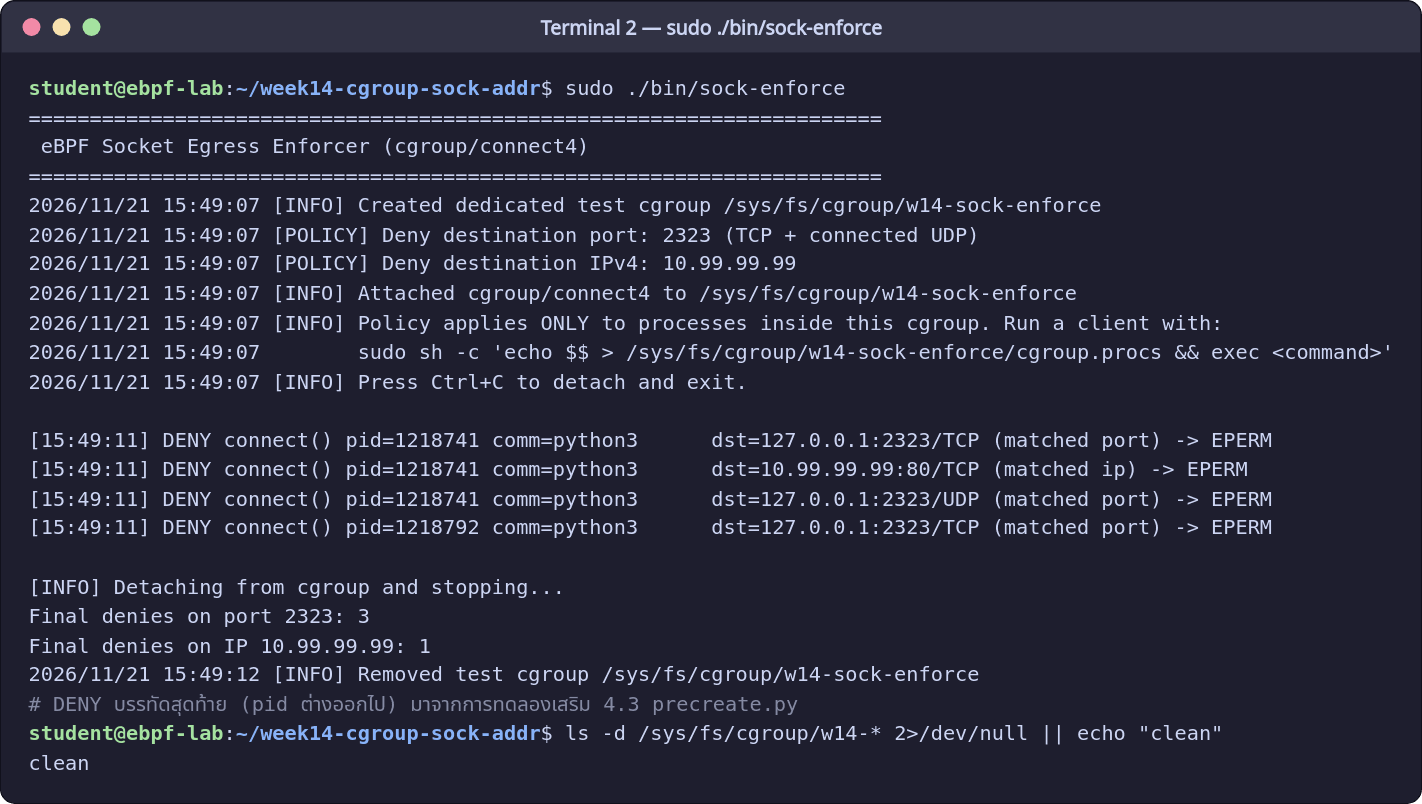
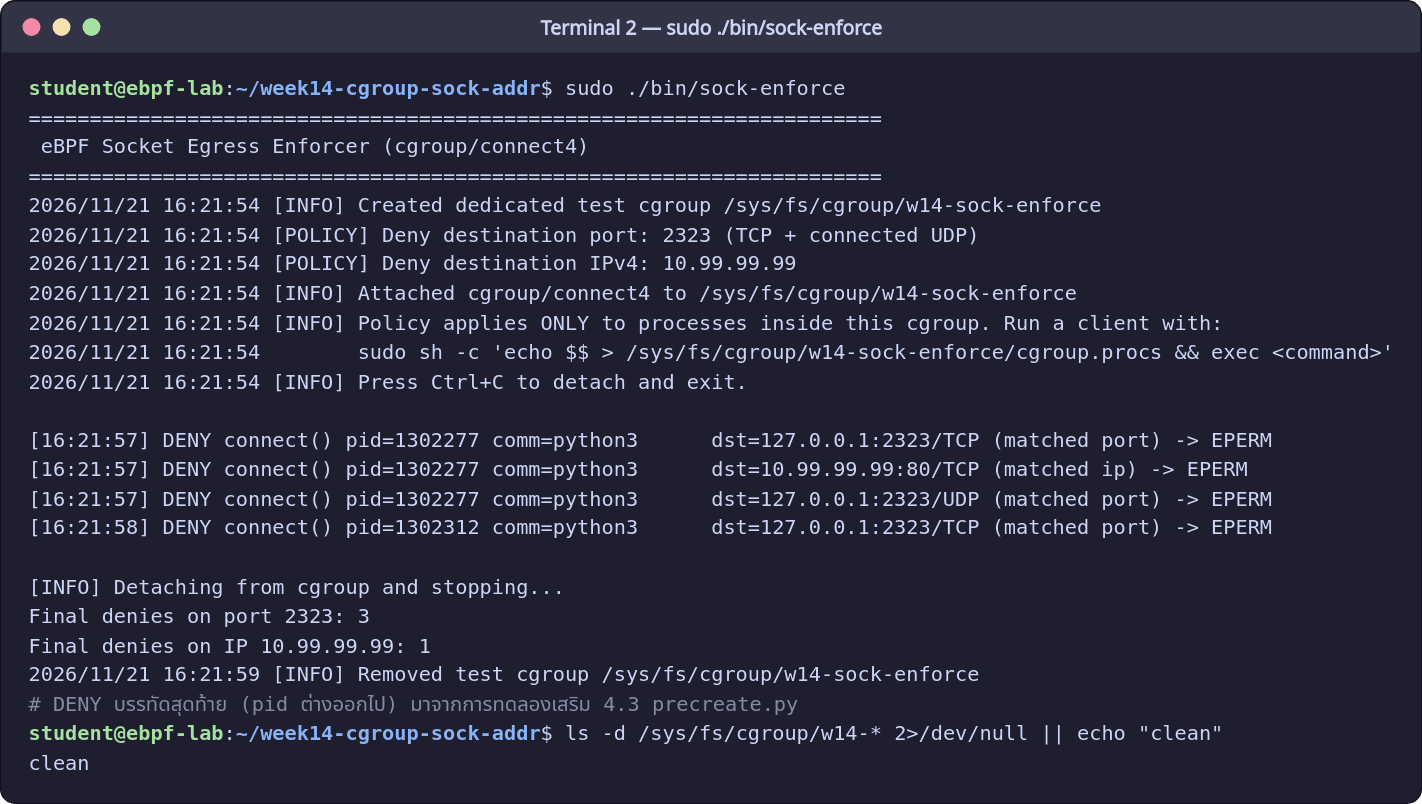
docs: align READMEs with Linux 7.0.0-43 and the new screenshots
- week06: re-capture section 5.6 verifier logs (kernel now prints
  "stack depth N max M" and "insns processed N"); note the format change
- week14: ship client.py and precreate.py in the lab instead of only
  inline/described; capture script uses them
- week16: BPF LSM is now enabled on the lab box; explain why the 4.2 text
  says NOT ACTIVE while the screenshot says ACTIVE
- week24: step 4 now shows how to get the full verifier log (bpftool prog
  load); note BTF IDs change per kernel build (99570 -> 99745)
- week25: enqueue == dispatch is not guaranteed (tasks left in SHARED_DSQ
  at detach); nice ratio depends on load; add caveat to the gallery

diff --git a/phase07-advanced-security-observability/week14-cgroup-sock-addr/client.py b/phase07-advanced-security-observability/week14-cgroup-sock-addr/client.py
@@ -1,0 +1,39 @@
+#!/usr/bin/env python3
+# Week 14 test client (same code as README step 4). Usage: python3 client.py [--in-cgroup] [--bypass]
+import socket, errno, sys
+def tryit(label, fn):
+    try: fn(); print(f"  {label:<48} -> OK (not blocked)")
+    except OSError as e: print(f"  {label:<48} -> {errno.errorcode.get(e.errno)} ({e.strerror})")
+def tcp4(h, p):
+    def f():
+        s = socket.socket(); s.settimeout(1)
+        try: s.connect((h, p))
+        finally: s.close()
+    return f
+def udp4_connect(h, p):
+    def f():
+        s = socket.socket(socket.AF_INET, socket.SOCK_DGRAM)
+        try: s.connect((h, p))
+        finally: s.close()
+    return f
+def udp4_sendto(h, p):
+    def f():
+        s = socket.socket(socket.AF_INET, socket.SOCK_DGRAM)
+        try: s.sendto(b"x", (h, p))
+        finally: s.close()
+    return f
+def tcp6_mapped(h, p):
+    def f():
+        s = socket.socket(socket.AF_INET6); s.settimeout(1)
+        try: s.connect(("::ffff:" + h, p))
+        finally: s.close()
+    return f
+print("cgroup of client:", open("/proc/self/cgroup").read().strip())
+tryit("TCP  connect 127.0.0.1:2323 (blocked port)", tcp4("127.0.0.1", 2323))
+tryit("TCP  connect 127.0.0.1:8080 (allowed port)", tcp4("127.0.0.1", 8080))
+if "--in-cgroup" in sys.argv:   # ไม่ทดสอบ IP ภายนอกจากนอก cgroup เพื่อไม่ให้มี SYN ออกไปจริง
+    tryit("TCP  connect 10.99.99.99:80 (blocked IP)", tcp4("10.99.99.99", 80))
+tryit("UDP  connect 127.0.0.1:2323 (blocked port)", udp4_connect("127.0.0.1", 2323))
+if "--bypass" in sys.argv:
+    tryit("UDP  sendto 127.0.0.1:2323 without connect()", udp4_sendto("127.0.0.1", 2323))
+    tryit("TCP6 connect [::ffff:127.0.0.1]:2323 (v4-mapped)", tcp6_mapped("127.0.0.1", 2323))

diff --git a/phase07-advanced-security-observability/week14-cgroup-sock-addr/precreate.py b/phase07-advanced-security-observability/week14-cgroup-sock-addr/precreate.py
@@ -1,0 +1,13 @@
+#!/usr/bin/env python3
+# Week 14 section 4.3: a socket created BEFORE joining the cgroup keeps its old cgroup.
+# Run as root while sock-enforce is attached: sudo python3 precreate.py
+import os, socket
+CG = "/sys/fs/cgroup/w14-sock-enforce/cgroup.procs"
+before = socket.socket()                       # created while still outside
+open(CG, "w").write(str(os.getpid()))          # join the test cgroup
+after = socket.socket()                        # created inside the cgroup
+print("now in:", open("/proc/self/cgroup").read().strip())
+for label, s in (("socket created BEFORE joining cgroup", before),
+                 ("socket created AFTER joining cgroup", after)):
+    try: s.connect(("127.0.0.1", 2323)); print(f"  {label:<40} -> connected")
+    except OSError as e: print(f"  {label:<40} -> {e}")

diff --git a/phase11-modern-ebpf-extensibility/week25-struct-ops-sched-ext/README.md b/phase11-modern-ebpf-extensibility/week25-struct-ops-sched-ext/README.md
@@ -376,6 +376,8 @@ pgrep -f 'ext-run' || echo "no workload left"
 
 > รันจริงบน `Linux 7.0.0-43-generic` (Ubuntu 26.04) เมื่อ 2026-11-21 ด้วยสคริปต์ [`scripts/screenshots/week25.sh`](../../scripts/screenshots/week25.sh) ทุกบรรทัดในภาพมาจากคำสั่งจริง (render เป็นภาพด้วย `scripts/screenshots/render.py`) ค่าอย่าง PID, เวลา, latency จึงอาจต่างจากข้อความในหัวข้อย่อยด้านล่างเล็กน้อย
 
+> **หมายเหตุ:** ภาพชุดนี้ถ่ายขณะเครื่องมีโหลดสูง (capture แล็บอื่นพร้อมกัน) ตัวเลขเชิงเวลาจึงต่างจากข้อความด้านล่าง: demo-nice ได้อัตราส่วน nice0:nice10 ≈ 3.5 : 1 (ข้อความ 4.x ≈ 8 : 1), demo-error ใช้ ~5 วินาทีกว่าจะถึง 1000 running events และ FIFO ได้ enqueue 4,955 / dispatch 4,947 (ดูคำอธิบายในหัวข้อการตีความผล)
+
 ![Terminal — make test (attach จริงในโหมด SWITCH_PARTIAL แล้ว detach)](screenshots/week25-1-make-test.png)
 
 *ภาพที่ 1: Terminal — make test (attach จริงในโหมด SWITCH_PARTIAL แล้ว detach)*
@@ -556,10 +558,10 @@ $ sudo dmesg | grep -A3 'sched_ext:' | tail -n 5
 
 **การตีความ:**
 - **Partial mode ทำงานตามที่ออกแบบ:** `switch_all=0` และ `dmesg` ระบุ `enabled (partial)` ทุกครั้ง; `enable_seq` เพิ่มทีละ 1 ต่อการโหลดหนึ่งครั้ง
-- **`enqueue == dispatch` เมื่อรวมทุก CPU** (20,585 = 20,585 ในหัวข้อ 4.2): ทุก task ที่เข้า `SHARED_DSQ` ถูกดึงออกไปรันครบ แต่ **ต่อ CPU ไม่เท่ากัน** เพราะ task ถูก enqueue บน CPU หนึ่งแล้วไปถูก dispatch บนอีก CPU ได้ (คิวเดียวทั้งระบบ = global FIFO); ตัวเลขรายวินาทีที่ dispatch มากกว่า enqueue เล็กน้อยเกิดจากการอ่านตัวนับคนละจังหวะ
+- **`enqueue ≈ dispatch` เมื่อรวมทุก CPU** (20,585 = 20,585 ในหัวข้อ 4.2): task ที่เข้า `SHARED_DSQ` ถูกดึงออกไปรันแทบทั้งหมด แต่ **ไม่รับประกันว่าเท่ากันพอดี**: task ที่ยังค้างอยู่ใน `SHARED_DSQ` ตอน detach จะถูกเคอร์เนลคืนให้ fair class โดยไม่ผ่าน `w25_dispatch` บนเครื่องที่มีโหลดสูงจึงเห็น enqueue มากกว่า dispatch ไม่กี่ตัว (ภาพหน้าจอที่ 2 ถ่ายขณะเครื่องมีโหลดสูง ได้ 4,955 กับ 4,947) แต่ **ต่อ CPU ไม่เท่ากัน** เพราะ task ถูก enqueue บน CPU หนึ่งแล้วไปถูก dispatch บนอีก CPU ได้ (คิวเดียวทั้งระบบ = global FIFO); ตัวเลขรายวินาทีที่ dispatch มากกว่า enqueue เล็กน้อยเกิดจากการอ่านตัวนับคนละจังหวะ
 - **`local` (direct dispatch)** คือการตื่นที่ `select_cpu` เจอ CPU ว่างจึงข้าม `ops.enqueue` — ในหัวข้อ 4.6 ที่มี workload แค่ 4 โปรเซสบน 8 CPU แทบทุกการตื่นเป็น direct dispatch (`enqueue=+0`) ส่วน 16 โปรเซสในหัวข้อ 4.2 ทำให้ต้องเข้าคิวบ่อยขึ้น
 - **`running` มากกว่า `local + enqueue` หลายเท่า:** `ops.running` ถูกเรียกทุกครั้งที่ task ได้ขึ้น CPU ไม่ใช่เฉพาะหลังผ่าน enqueue/dispatch สาเหตุที่น่าจะเป็นคือกรณีที่เคอร์เนลวาง task กลับลง local DSQ เองโดยไม่เรียก `ops.enqueue` เช่น task ถูก task ของ class ที่สูงกว่า (fair) แย่ง CPU ชั่วคราวแล้วได้กลับมารันต่อด้วย slice ที่เหลือ หรือเป็น task สุดท้ายบน CPU ที่ได้ slice ใหม่โดยไม่ต้องเข้าคิว (ไม่ได้ตั้ง `SCX_OPS_ENQ_LAST`) — ลองพิสูจน์เองในแบบฝึกหัดระดับพื้นฐานข้อ 2
-- **vtime เคารพ nice:** บน CPU เดียวกัน FIFO แบ่งเวลาเท่ากันทั้ง 4 ตัว (~1.5 s) ไม่สนใจ nice ส่วน vtime ให้ nice 0 ได้ ~2.64–2.74 s และ nice 10 ได้ ~0.32 s อัตราส่วนประมาณ 8.2–8.6 : 1 ใกล้แต่ไม่เท่ากับอัตราส่วน weight 100 : 11 (≈ 9 : 1) ส่วนหนึ่งเพราะ dispatch เกิดก่อนที่ `prev` จะกลับเข้าคิว (ดูข้อจำกัดข้อ 3) และ CPU 3 ยังมี task ของ fair class มาแทรกเป็นระยะ
+- **vtime เคารพ nice:** บน CPU เดียวกัน FIFO แบ่งเวลาเท่ากันทั้ง 4 ตัว (~1.5 s) ไม่สนใจ nice ส่วน vtime ให้ nice 0 ได้ ~2.64–2.74 s และ nice 10 ได้ ~0.32 s อัตราส่วนประมาณ 8.2–8.6 : 1 ใกล้แต่ไม่เท่ากับอัตราส่วน weight 100 : 11 (≈ 9 : 1) ส่วนหนึ่งเพราะ dispatch เกิดก่อนที่ `prev` จะกลับเข้าคิว (ดูข้อจำกัดข้อ 3) และ CPU 3 ยังมี task ของ fair class มาแทรกเป็นระยะ อัตราส่วนนี้ขึ้นกับโหลดของเครื่อง: ภาพหน้าจอ demo-nice ถ่ายขณะมีงานอื่นรันพร้อมกันบน CPU เดียวกัน (fair class แทรกมากขึ้น) ได้ประมาณ 3.5 : 1 แต่ทิศทางเหมือนกัน คือ vtime ให้ nice 0 ได้ CPU มากกว่า nice 10 ชัดเจน ส่วน FIFO เท่ากันทั้ง 4 ตัว
 - **Watchdog:** ตั้ง `timeout_ms=2000` แล้วถูก eject หลัง task ค้าง 2.028 s (ใน test ที่ตั้ง 1000 ms ถูก eject ที่ 1.505 s) — watchdog ตรวจเป็นรอบ เวลาจริงจึงเกิน `timeout_ms` ได้ ไม่ใช่การตัดตรงเป๊ะ; task ที่ค้างชื่อ `exe` เพราะยังอยู่ระหว่าง `ext-run` (`/proc/self/exe`) ก่อน `execve` เป็น `sh`
 - ใน 4.5 ตัวนับ `running` ยังขยับเล็กน้อยระหว่าง stall: เป็นจังหวะที่ task กำลังรันอยู่ตอนถูกเปลี่ยน policy หรือช่วงที่เคอร์เนลกำลังถอด scheduler — ไม่ใช่งานที่ถูก dispatch จาก `SHARED_DSQ` (`dispatch=0` ตลอด)
 - **หลัง eject workload ไม่ตาย:** test วัดได้ว่า `se.sum_exec_runtime` ของ workload เพิ่มจาก 29.5 ms เป็น 254.2 ms ภายใน 0.5 s หลัง eject = กลับไปรันด้วย fair class

diff --git a/phase03-modern-ebpf-core/week06-ebpf-maps/README.md b/phase03-modern-ebpf-core/week06-ebpf-maps/README.md
@@ -456,7 +456,7 @@ invalid access to packet, off=12 size=1, R1(id=0,off=12,r=0)
 - `R1=pkt(r=0)` = R1 เป็น Pointer ชี้เข้า Packet แต่ช่วงที่พิสูจน์แล้วว่าอ่านได้ (`r=`) คือ 0 ไบต์ เพราะยังไม่มีการเทียบกับ `data_end`
 - บรรทัดสุดท้ายก่อนสถิติคือ **สาเหตุ** ที่ถูกปฏิเสธ — การอ่านไบต์ที่ offset 12 (`h_proto`) ทั้งที่ `r=0`
 - บรรทัด `; ... @ verifier_fail.c:48` คือ Source Line ที่ได้จาก BTF (ต้องคอมไพล์ด้วย `-g` ซึ่ง bpf2go ใส่ให้อัตโนมัติ)
-- บรรทัดสถิติท้าย Log: `processed N insns (limit 1000000)` = จำนวน Instruction ที่ Verifier จำลองรวมทุก Path, `stack depth` = ขนาด Stack ที่ใช้ (สูงสุด 512 ไบต์)
+- บรรทัดสถิติท้าย Log: `processed N insns (limit 1000000)` = จำนวน Instruction ที่ Verifier จำลองรวมทุก Path, `stack depth` = ขนาด Stack ที่ใช้ (สูงสุด 512 ไบต์; ตั้งแต่ 7.0.0-43 แสดงเป็น `stack depth N max M` และมีบรรทัด `insns processed N` เพิ่ม — ข้อความเปลี่ยนตามเวอร์ชันเคอร์เนล อย่าเขียนสคริปต์ที่ parse บรรทัดเหล่านี้แบบตายตัว)
 
 ทางเลือกด้วย `bpftool`: เปิด Debug Output ของ libbpf ด้วย `-d` แล้ว libbpf จะพิมพ์ Verifier Log ระหว่าง `-- BEGIN PROG LOAD LOG --` ... `-- END PROG LOAD LOG --` เมื่อโหลดไม่ผ่าน (bpftool โหลดทุกโปรแกรมในไฟล์ `.o` จึงหยุดที่โปรแกรมแรกที่ไม่ผ่าน ในที่นี้คือ `xdp_no_bounds_check`):
 ```bash
@@ -521,7 +521,7 @@ sudo ./bin/verifier_fail -case fixed
 
 ### 5.6 ผลลัพธ์จริง (Verifier Log จริง)
 
-> **Environment**: Ubuntu 26.04.1 LTS (`Linux 7.0.0-38-generic #38-Ubuntu SMP PREEMPT_DYNAMIC x86_64`), clang 21.1.8, Go 1.26, cilium/ebpf v0.16.0
+> **Environment**: Ubuntu 26.04.1 LTS (`Linux 7.0.0-43-generic #43-Ubuntu SMP PREEMPT_DYNAMIC x86_64`), clang 21.1.8, Go 1.26, cilium/ebpf v0.16.0 (จับใหม่ 2026-11-21: ตั้งแต่ 7.0.0-43 ท้าย Log มีบรรทัด `stack depth N max M` และ `insns processed N` เพิ่มขึ้น)
 
 `make verifier-demo` (ตัดบรรทัด `go build` ด้านบนออก):
 ```text
@@ -535,10 +535,11 @@ load program: permission denied:
 	1: (71) r2 = *(u8 *)(r1 +12)
 	invalid access to packet, off=12 size=1, R1(id=0,off=12,r=0)
 	R1 offset is outside of the packet
-	verification time 26 usec
-	stack depth 0
+	verification time 38 usec
+	stack depth 0 max 0
+	insns processed 2
 	processed 2 insns (limit 1000000) max_states_per_insn 0 total_states 0 peak_states 0 mark_read 0
-make: [Makefile:33: verifier-demo] Error 1 (ignored)
+make: [Makefile:32: verifier-demo] Error 1 (ignored)
 sudo ./bin/verifier_fail -case nullcheck
 [VERIFIER] program "xdp_no_null_check" REJECTED
 load program: permission denied:
@@ -549,20 +550,22 @@ load program: permission denied:
 	2: (bf) r2 = r10                      ; R2=fp0 R10=fp0
 	3: (07) r2 += -4                      ; R2=fp-4
 	; __u64 *count = bpf_map_lookup_elem(&pkt_count, &key); @ verifier_fail.c:62
-	4: (18) r1 = 0xffff8a9b68f41c00       ; R1=map_ptr(map=pkt_count,ks=4,vs=8)
+	4: (18) r1 = 0xffff8c87a2e14c00       ; R1=map_ptr(map=pkt_count,ks=4,vs=8)
 	6: (85) call bpf_map_lookup_elem#1    ; R0=map_value_or_null(id=1,map=pkt_count,ks=4,vs=8)
 	7: (b7) r1 = 1                        ; R1=1
 	; __sync_fetch_and_add(count, 1); @ verifier_fail.c:65
 	8: (db) lock *(u64 *)(r0 +0) += r1
 	R0 invalid mem access 'map_value_or_null'
-	verification time 37 usec
-	stack depth 8
+	verification time 41 usec
+	stack depth 8 max 0
+	insns processed 8
 	processed 8 insns (limit 1000000) max_states_per_insn 0 total_states 0 peak_states 0 mark_read 0
-make: [Makefile:34: verifier-demo] Error 1 (ignored)
+make: [Makefile:33: verifier-demo] Error 1 (ignored)
 sudo ./bin/verifier_fail -case fixed
 [VERIFIER] program "xdp_fixed" ACCEPTED
-verification time 58 usec
-stack depth 16
+verification time 56 usec
+stack depth 16 max 16
+insns processed 37
 processed 37 insns (limit 1000000) max_states_per_insn 0 total_states 3 peak_states 3 mark_read 0
 ```
 
@@ -571,9 +574,9 @@ processed 37 insns (limit 1000000) max_states_per_insn 0 total_states 3 peak_sta
 $ sudo ./bin/verifier_fail -case nullcheck -lines 3
 [VERIFIER] program "xdp_no_null_check" REJECTED
 load program: permission denied:
-	(13 line(s) omitted)
-	verification time 87 usec
-	stack depth 8
+	(14 line(s) omitted)
+	stack depth 8 max 0
+	insns processed 8
 	processed 8 insns (limit 1000000) max_states_per_insn 0 total_states 0 peak_states 0 mark_read 0
 ```
 > ข้อควรระวัง: 3 บรรทัดสุดท้ายเป็น **สถิติล้วน** ไม่มีสาเหตุของ Error เลย ในทางปฏิบัติให้ใช้ `-lines 8` ขึ้นไป หรืออ่านทั้ง Log
@@ -599,8 +602,9 @@ Live regs before insn:
 1: (71) r2 = *(u8 *)(r1 +12)
 invalid access to packet, off=12 size=1, R1(id=0,off=12,r=0)
 R1 offset is outside of the packet
-verification time 119 usec
-stack depth 0
+verification time 43 usec
+stack depth 0 max 0
+insns processed 2
 processed 2 insns (limit 1000000) max_states_per_insn 0 total_states 0 peak_states 0 mark_read 0
 -- END PROG LOAD LOG --
 ```

diff --git a/phase07-advanced-security-observability/week16-ebpf-integrity-audit/README.md b/phase07-advanced-security-observability/week16-ebpf-integrity-audit/README.md
@@ -113,7 +113,7 @@ struct trace_bpf_args {
 | `net.core.bpf_jit_harden` | 0/1/2 | ปิด / เปิดสำหรับ unprivileged / เปิดทุกโปรแกรม (constant blinding ป้องกัน JIT spraying) |
 | `/sys/kernel/security/lsm` มี `bpf` | — | BPF LSM เปิดอยู่ จึงเขียนนโยบาย `lsm/bpf` เพื่อ **บังคับ** ว่าใครโหลดอะไรได้ |
 
-บนเครื่องทดลอง: `unprivileged_bpf_disabled = 2`, `bpf_jit_harden = 0` และ LSM ที่เปิดคือ `lockdown,capability,landlock,yama,apparmor,ima,evm` (**ไม่มี `bpf`**) แปลว่าเครื่องนี้ทำได้เพียง "ตรวจจับ" ยังไม่สามารถใช้ BPF LSM บังคับได้หากไม่แก้ kernel command line
+บนเครื่องทดลอง: `unprivileged_bpf_disabled = 2`, `bpf_jit_harden = 0` ตอนบันทึก output ข้อความในหัวข้อ 4.2 (Linux 7.0.0-38) LSM ที่เปิดคือ `lockdown,capability,landlock,yama,apparmor,ima,evm` (**ไม่มี `bpf`**) เครื่องจึงทำได้เพียง "ตรวจจับ" ต่อมาเราเปิด BPF LSM ด้วย kernel command line `lsm=landlock,lockdown,yama,integrity,apparmor,bpf` (ใช้ใน Week 10) ตอนนี้ `/sys/kernel/security/lsm` จึงเป็น `lockdown,capability,landlock,yama,apparmor,bpf,ima,evm` และ auditor รายงาน `BPF LSM ... : ACTIVE` (ดูภาพหน้าจอในหัวข้อ 4) พร้อมเห็นโปรแกรม LSM `restrict_filesy` ของ systemd ใน inventory — ผลบรรทัดนี้จึงขึ้นกับการตั้งค่าการบูตของแต่ละเครื่อง
 
 ---
 
@@ -340,6 +340,7 @@ $ sudo bpftool prog show pinned /sys/fs/bpf/w16_cpu7
 ```
 
 ### 4.2 Auditor (`sudo ./bin/bpf-audit`)
+> output ข้อความชุดนี้บันทึกก่อนเปิด BPF LSM จึงขึ้น `NOT ACTIVE` บนเครื่องที่บูตด้วย `lsm=...,bpf` (เช่นภาพหน้าจอด้านบน) จะขึ้น `ACTIVE` และมีโปรแกรม `restrict_filesy` (LSM ของ systemd) เพิ่มใน inventory
 ```text
 ======================================================================
  eBPF Integrity Auditor: bpf() syscall monitor + program inventory
@@ -464,7 +465,7 @@ TIME      PID     UID   COMM             BPF COMMAND              RISK        DE
 | **ชื่อโปรแกรมปลอมได้** | ชื่อ (สูงสุด 15 ตัวอักษร) ถูกกำหนดโดยผู้โหลด rootkit ตั้งชื่อเลียนแบบ `sd_fw_egress` ได้ ควรเทียบ **tag** กับ baseline แทนชื่อ |
 
 **แนวทางป้องกันที่ควรใช้ร่วมกัน (Defense-in-depth):**
-1. **BPF LSM** (`lsm/bpf`, `lsm/bpf_prog_load` ฯลฯ): บังคับนโยบาย ณ จุดที่เคอร์เนลเห็น attr หลัง copy แล้ว เช่น อนุญาตให้เฉพาะ binary ของ agent ที่รู้จักโหลดโปรแกรม (ต้องเปิด `bpf` ใน LSM list ตอนบูต; เครื่องทดลองนี้ยังไม่ได้เปิด)
+1. **BPF LSM** (`lsm/bpf`, `lsm/bpf_prog_load` ฯลฯ): บังคับนโยบาย ณ จุดที่เคอร์เนลเห็น attr หลัง copy แล้ว เช่น อนุญาตให้เฉพาะ binary ของ agent ที่รู้จักโหลดโปรแกรม (ต้องเปิด `bpf` ใน LSM list ตอนบูต; เครื่องทดลองเปิดแล้วตั้งแต่ Week 10 แต่บทนี้ยังไม่ได้เขียนนโยบาย `lsm/bpf` — ดูแบบฝึกหัดระดับท้าทาย)
 2. **BPF token** (เคอร์เนลรุ่นใหม่ราว 6.9 ขึ้นไป): มอบสิทธิ์ใช้ eBPF แบบจำกัดคำสั่ง/ชนิดโปรแกรมให้ container แทนการให้ `CAP_SYS_ADMIN`/`CAP_BPF` เต็มรูปแบบ
 3. **การลงนามโปรแกรม (BPF program signing):** เป็นงานที่กำลังพัฒนา/เพิ่งเริ่มเข้าสู่ mainline ในรุ่นหลัง ๆ (ควรตรวจสอบสถานะกับเอกสารของเคอร์เนลเวอร์ชันที่ใช้)
 4. **ลดผู้มีสิทธิ์:** ตั้ง `kernel.unprivileged_bpf_disabled=1`, ไม่ให้ container มี `CAP_BPF`/`CAP_SYS_ADMIN`, ใช้ kernel lockdown

diff --git a/phase11-modern-ebpf-extensibility/week24-kfuncs-arena/README.md b/phase11-modern-ebpf-extensibility/week24-kfuncs-arena/README.md
@@ -239,9 +239,14 @@ sudo ./bin/kfunc-arena -pid $$ -n 5000 -keys 300
 
 ### ขั้นตอนที่ 4: ดู verifier log เต็มของโปรแกรมที่พัง
 ```bash
-go test -exec sudo -run 'TestBrokenProgramsRejected/leak_task' -v .   # ผ่าน = ถูกปฏิเสธจริง
+# ยืนยันว่าถูกปฏิเสธจริง (แสดงแค่ PASS ไม่แสดง log)
+go test -exec sudo -run 'TestBrokenProgramsRejected/leak_task' -v .
+
+# ดู verifier log เต็ม: ให้ bpftool (libbpf) โหลด object ที่พัง แล้วอ่าน log ที่ libbpf พิมพ์ออกมา
+sudo bpftool prog load broken_bpfel.o /sys/fs/bpf/w24_leak
+sudo rm -f /sys/fs/bpf/w24_leak   # เผื่อกรณีโหลดผ่าน (ไม่ควรเกิด)
 ```
-หรือแก้ `verifierTail(err, 2)` ใน `main.go` เป็นค่าที่มากขึ้น แล้ว `make run`
+`go test` ตรวจแค่ว่าถูกปฏิเสธด้วยข้อความที่คาดไว้ จึงไม่พิมพ์ log ออกมา ส่วน `bpftool prog load` พิมพ์ log ของ `leak_task` ครบเหมือนหัวข้อ 4.3 (อีกทางคือแก้ `verifierTail(err, 2)` ใน `main.go` เป็นค่าที่มากขึ้น แล้ว `make run`)
 
 ### ขั้นตอนที่ 5: ดู `addr_space_cast` ที่ clang แทรกให้
 ```bash
@@ -419,7 +424,7 @@ load program: invalid argument:
 	BPF_EXIT instruction in main prog would lead to reference leak
 	processed 8 insns (limit 1000000) max_states_per_insn 0 total_states 0 peak_states 0 mark_read 0
 ```
-อ่าน log ได้ดังนี้: หลัง `call bpf_task_from_pid#99570` (99570 คือ BTF ID เดียวกับในหัวข้อ 4.4) R0 มีชนิด `trusted_ptr_or_null_task_struct` และสถานะ `refs=2`; หลัง `if r0 == 0` ในเส้นทางที่ไม่ใช่ NULL ชนิดกลายเป็น `trusted_ptr_task_struct`; ที่ `exit` ยังมี `refs=2` ค้าง จึงถูกปฏิเสธ (เส้นทาง NULL ไม่มีปัญหาเพราะ reference ถูกยกเลิกไปแล้ว)
+อ่าน log ได้ดังนี้: หลัง `call bpf_task_from_pid#99570` (99570 คือ BTF ID เดียวกับในหัวข้อ 4.4 บน 7.0.0-38; BTF ID เปลี่ยนทุกครั้งที่ build kernel ใหม่ เช่นบน 7.0.0-43 เป็น 99745 ตามภาพหน้าจอ — นี่คือเหตุผลที่ kfunc ต้องอ้างผ่าน BTF ไม่ใช่หมายเลขคงที่) R0 มีชนิด `trusted_ptr_or_null_task_struct` และสถานะ `refs=2`; หลัง `if r0 == 0` ในเส้นทางที่ไม่ใช่ NULL ชนิดกลายเป็น `trusted_ptr_task_struct`; ที่ `exit` ยังมี `refs=2` ค้าง จึงถูกปฏิเสธ (เส้นทาง NULL ไม่มีปัญหาเพราะ reference ถูกยกเลิกไปแล้ว)
 
 ### 4.4 ค้นหา kfunc บนเครื่องทดสอบ
 ```text
